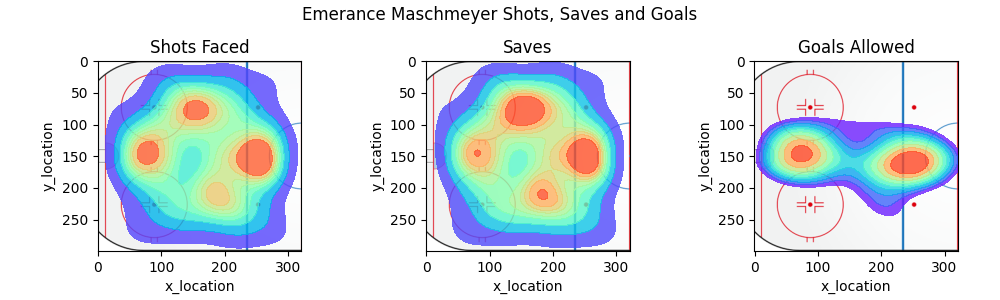
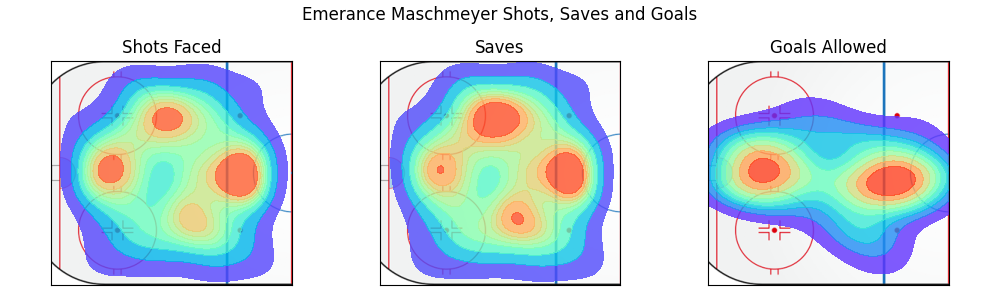
comments and tweaks

diff --git a/goalie-shots-heatmap/maschmeyer/maschmeyer-heatmap.py b/goalie-shots-heatmap/maschmeyer/maschmeyer-heatmap.py
@@ -4,6 +4,9 @@ import matplotlib.pyplot as plt
 import matplotlib.image as mpimg
 import numpy as np
 
+# the goals map isn't fantastic because in this data, she only let in 54 goals. 
+# i'll revisit at the end of the season so there should be more data. i feel like it'll be more accurate at around 100 goals. 
+
 # basically just to have all shots mirrored on one side
 # this isn't perfect bc some shots might be taken from across center ice, especially empty net goals
 # but also the threshold will probably weed them out lmao
@@ -23,6 +26,7 @@ df_saves = df_saves[df_saves["goalie_id"] == 59]
 
 df_goals = pd.read_csv("data/shotsgoals_2024season.csv", index_col=0)
 df_goals = df_goals[df_goals["goalie_id"] == 59]
+print(len(df_goals))
 
 # do the math!
 df_shots["x_location"] = df_shots.loc[:, "x_location"].map(lambda x: do_math(x))
@@ -35,6 +39,11 @@ map_image = mpimg.imread("extra-resources/images/ht-ice-rink-2.png")
 fig, axes = plt.subplots(nrows=1, ncols=3, figsize=(10, 3))
 
 fig.suptitle("Emerance Maschmeyer Shots, Saves and Goals")
+
+# remove ticks and labels
+for i in range(3):
+    axes[i].set_xticks([],[])
+    axes[i].set_yticks([],[])
 
 # graph it!
 shots_graph = sns.kdeplot(ax=axes[0], data=df_shots, x="x_location", y="y_location", fill=True, cmap="rainbow", alpha=0.8, thresh=0.07)
